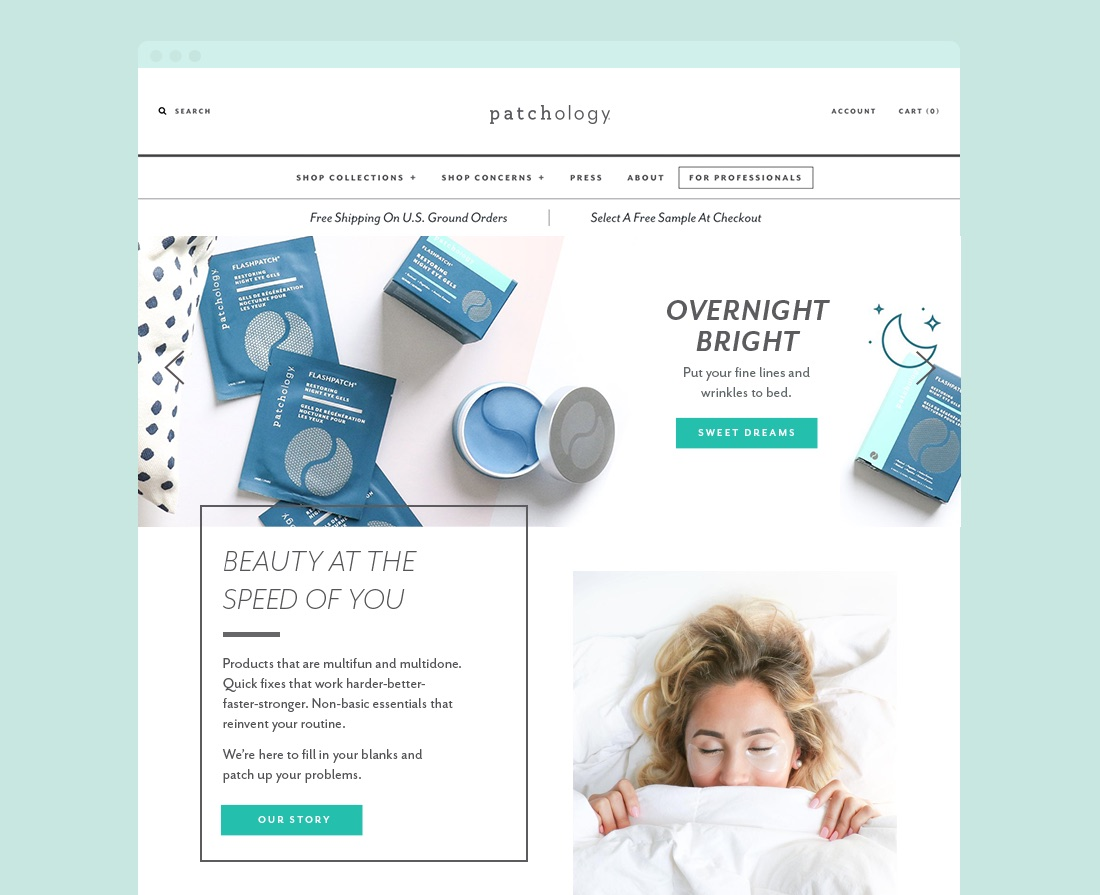
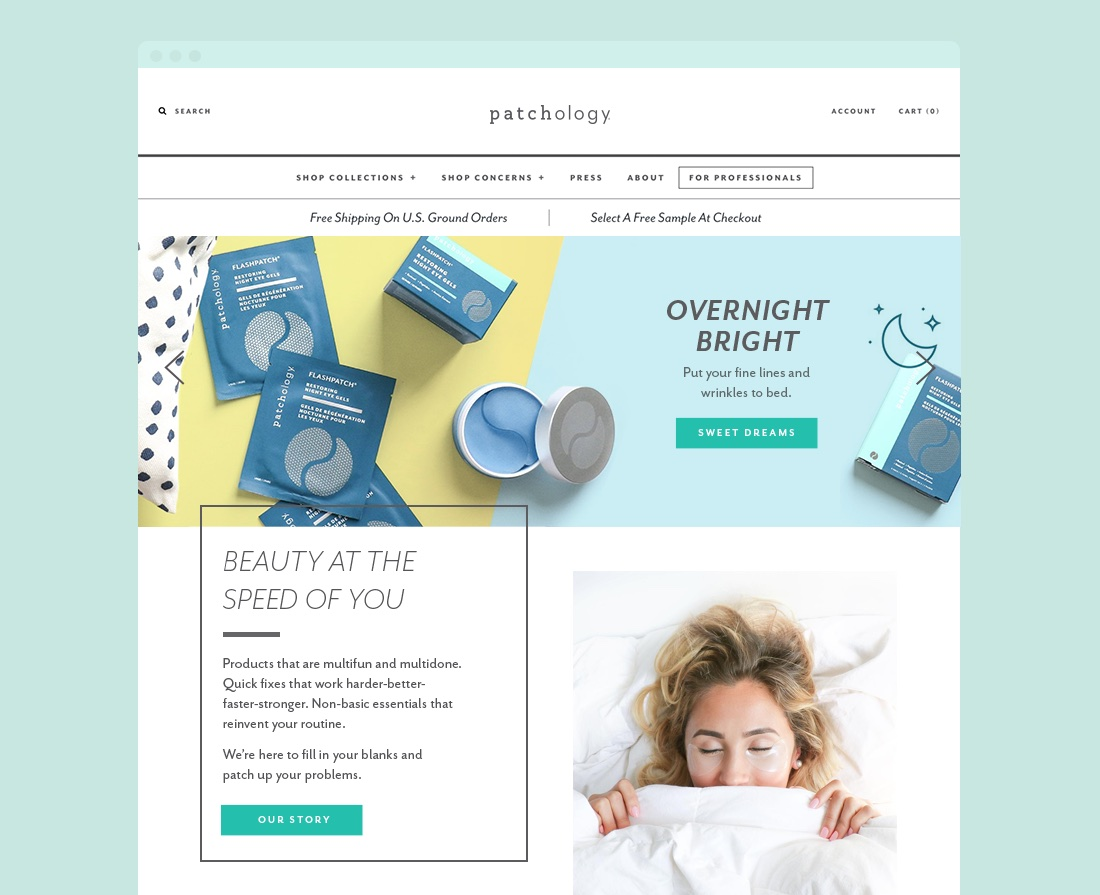
Updated Patchology.

Changed region(s): [[0.1855, 0.2413, 0.8964, 0.6034], [0.1236, 0.3318, 0.2473, 0.6034]]

diff --git a/public_html/includes/site-data.php b/public_html/includes/site-data.php
@@ -32,19 +32,22 @@ $bgs = array(
     2 => array(
         'filename' => 'bb-splash-saucyasian.jpg',
     ),
-    3 => array(
+	3 => array(
+        'filename' => 'bb-splash-paulaproduct.jpg',
+    ),
+    4 => array(
         'filename' => 'bb-splash-biossance.jpg',
     ),
-	4 => array(
+	5 => array(
         'filename' => 'bb-splash-naya.jpg',
     ),
-	5 => array(
+	6 => array(
         'filename' => 'bb-splash-freya.jpg',
     ),
-	6 => array(
+	7 => array(
         'filename' => 'bb-splash-camp.jpg',
     ),
-	7 => array(
+	8 => array(
         'filename' => 'bb-splash-ipsy.jpg',
     ),
 );
